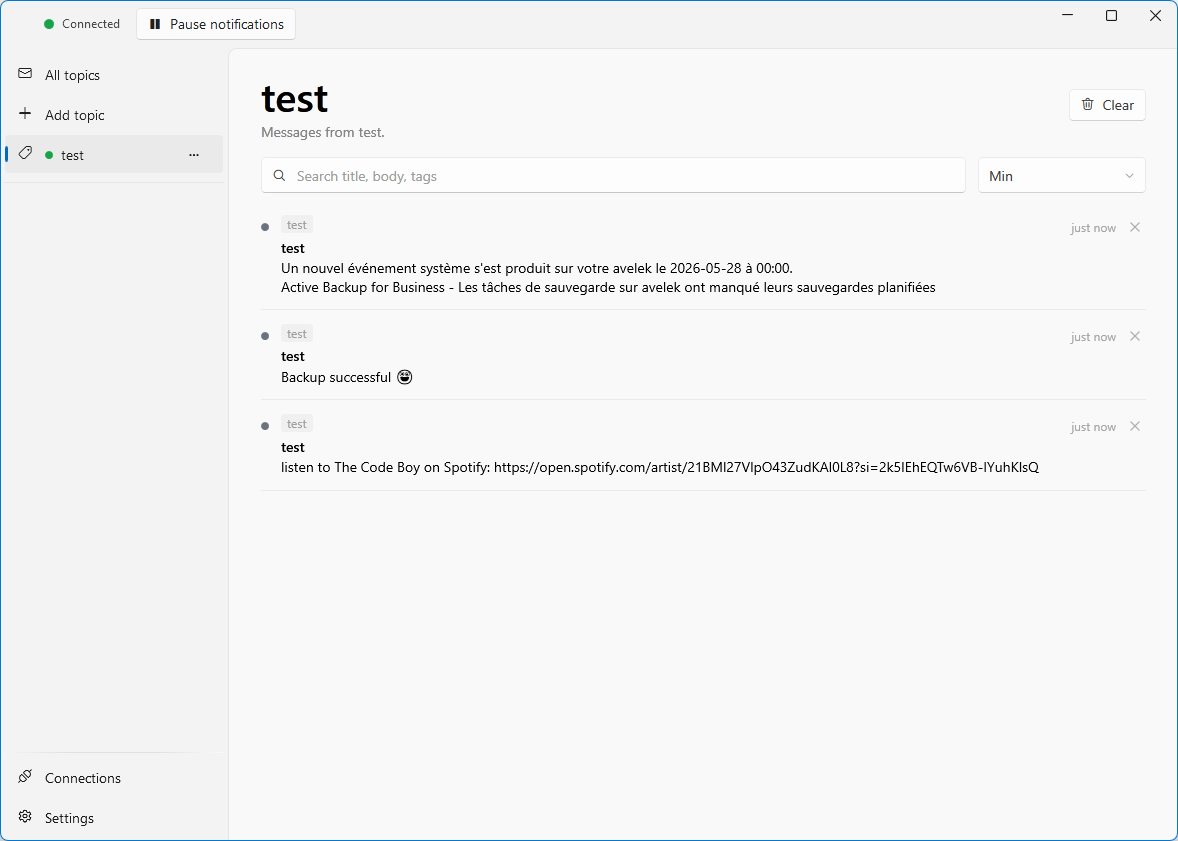
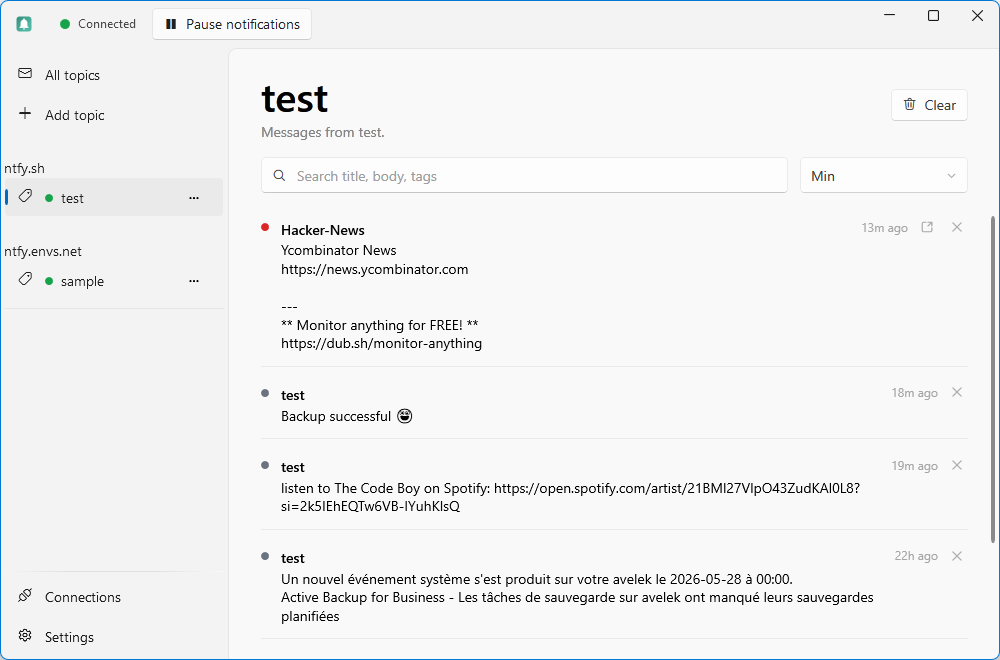
Show topic display name and server in the All-topics feed

diff --git a/Features/Feed/FeedPage.xaml b/Features/Feed/FeedPage.xaml
@@ -190,10 +190,27 @@
                                     <StackPanel Orientation="Horizontal" Margin="0,0,0,4">
                                         <Border Background="{DynamicResource SubtleFillColorSecondaryBrush}"
                                                 CornerRadius="3"
-                                                Padding="6,1">
+                                                Padding="6,1"
+                                                Visibility="{Binding ShowTopic, Converter={StaticResource BoolToVis}}">
                                             <ui:TextBlock Foreground="{DynamicResource TextFillColorSecondaryBrush}"
                                                           FontTypography="Caption"
-                                                          Text="{Binding Topic}" />
+                                                          Text="{Binding DisplayTopic}" />
+                                        </Border>
+                                        <!-- Server chip: only on the All-topics view with more than one
+                                             server (HistoryMessage.ServerName is set accordingly). -->
+                                        <Border Background="{DynamicResource SubtleFillColorSecondaryBrush}"
+                                                CornerRadius="3"
+                                                Padding="6,1"
+                                                Margin="6,0,0,0"
+                                                Visibility="{Binding HasServer, Converter={StaticResource BoolToVis}}">
+                                            <StackPanel Orientation="Horizontal">
+                                                <ui:SymbolIcon Symbol="Server24" FontSize="11" VerticalAlignment="Center"
+                                                               Foreground="{DynamicResource TextFillColorTertiaryBrush}" />
+                                                <ui:TextBlock Margin="4,0,0,0"
+                                                              Foreground="{DynamicResource TextFillColorTertiaryBrush}"
+                                                              FontTypography="Caption"
+                                                              Text="{Binding ServerName}" />
+                                            </StackPanel>
                                         </Border>
                                         <!-- Unrecognized tag labels rendered as compact chips next to the topic.
                                              Recognized tags (e.g. "warning") become emojis prepended to the

diff --git a/Features/Feed/FeedViewModel.cs b/Features/Feed/FeedViewModel.cs
@@ -119,12 +119,16 @@ public sealed partial class FeedViewModel : ObservableObject
         var minP = MinPriority;
         var search = SearchText;
 
+        var allTopics = topicId is null;
+
         var loaded = await Task.Run(() =>
         {
             var raw = _history.Query(topicId: topicId, minPriority: minP, limit: MaxDisplayed);
-            return string.IsNullOrWhiteSpace(search)
+            var list = string.IsNullOrWhiteSpace(search)
                 ? raw
                 : raw.Where(m => Matches(m, search)).ToList();
+            foreach (var m in list) Enrich(m, allTopics);
+            return list;
         });
 
         await Application.Current.Dispatcher.InvokeAsync(() =>
@@ -142,6 +146,8 @@ public sealed partial class FeedViewModel : ObservableObject
         if (m.Priority < MinPriority) return;
         if (!string.IsNullOrWhiteSpace(SearchText) && !Matches(m, SearchText)) return;
 
+        Enrich(m, allTopics: CurrentTopicId is null);
+
         Application.Current?.Dispatcher.Invoke((Action) (() =>
         {
             Messages.Insert(0, m);
@@ -149,6 +155,20 @@ public sealed partial class FeedViewModel : ObservableObject
                 Messages.RemoveAt(Messages.Count - 1);
             IsEmpty = false;
         }));
+    }
+
+    // Populates the message's display-only fields (friendly topic label + server)
+    // from current settings. ServerName is only set when showServer is true.
+    private void Enrich(HistoryMessage m, bool allTopics)
+    {
+        var topic = _settings.GetTopicById(m.TopicId);
+        m.TopicLabel = topic?.EffectiveDisplayName ?? m.Topic;
+        // Topic + server chips only on the combined All-topics view; the server
+        // chip additionally needs more than one server to be meaningful.
+        m.ShowTopic = allTopics;
+        m.ServerName = allTopics && _settings.Servers.Count > 1 && topic is not null
+            ? _settings.GetServer(topic.ServerId)?.DisplayLabel
+            : null;
     }
 
     private static bool Matches(HistoryMessage m, string q) =>

diff --git a/Features/History/HistoryMessage.cs b/Features/History/HistoryMessage.cs
@@ -21,6 +21,22 @@ public class HistoryMessage
     /// <summary>True when Click is a non-empty http(s) URL the app will follow.</summary>
     public bool HasClick => SafeUrl.IsAllowed(Click);
 
+    // Display-only fields populated by FeedViewModel from current settings (the
+    // repository doesn't know about display names or servers).
+
+    /// <summary>Friendly topic label for the chip; falls back to the raw topic name.</summary>
+    public string? TopicLabel { get; set; }
+
+    /// <summary>Server label to show on the row (set only when it should be shown).</summary>
+    public string? ServerName { get; set; }
+
+    /// <summary>Whether to show the topic chip — only on the combined All-topics view
+    /// (redundant on a single-topic view, where every row is the same topic).</summary>
+    public bool ShowTopic { get; set; }
+
+    public string DisplayTopic => string.IsNullOrEmpty(TopicLabel) ? Topic : TopicLabel!;
+    public bool HasServer => !string.IsNullOrEmpty(ServerName);
+
     private (string Emojis, IReadOnlyList<string> Labels)? _tagDisplay;
     private (string Emojis, IReadOnlyList<string> Labels) TagDisplay =>
         _tagDisplay ??= EmojiTags.Format(

diff --git a/README.md b/README.md
@@ -18,10 +18,12 @@ A Windows desktop client for [ntfy.sh](https://ntfy.sh) — subscribe to topics,
 
 | | |
 |---|---|
-| ![Message feed](screenshots/topic-feed.png) | ![Topic menu](screenshots/topic-context-menu.png) |
-| *Message feed* | *Per-topic actions* |
-| ![Connections](screenshots/connections.png) | ![Settings](screenshots/settings.png) |
-| *Connections page* | *Settings page* |
+| ![All topics](screenshots/all-topics-feed.png) | ![Servers and grouped sidebar](screenshots/settings-and-sidebar-with-multiple-servers.png) |
+| *All topics — messages from every server* | *Multiple servers, grouped sidebar* |
+| ![Single topic](screenshots/topic-feed.png) | ![Connections](screenshots/connections.png) |
+| *Single-topic feed* | *Connections page* |
+| ![Per-topic actions](screenshots/topic-context-menu.png) | |
+| *Per-topic actions* | |
 
 ## Features
 